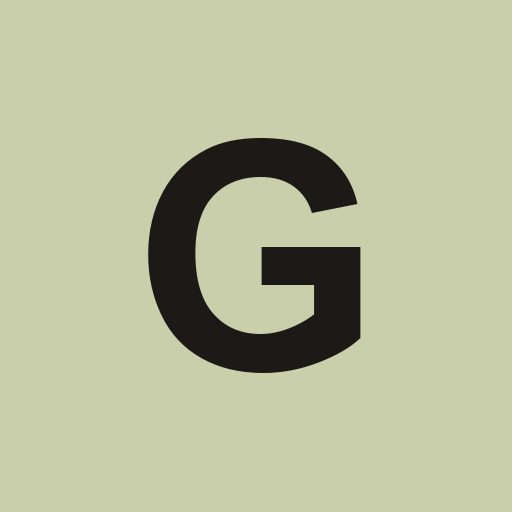
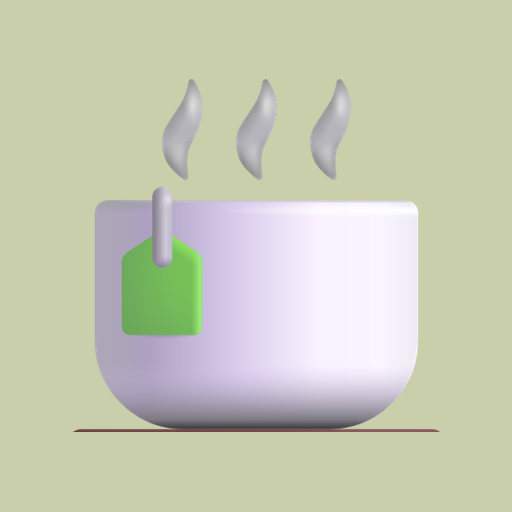
아이콘: 파비콘 · 홈 화면 아이콘을 🍵 로 통일
- app/favicon.ico (Next.js 기본 아이콘 → 🍵), 홈 화면 · 아이폰 · 안드로이드(원형) 아이콘도 🍵
- 서비스 워커 저장소 v4 (예전 G 아이콘 저장본 정리)

diff --git a/public/sw.js b/public/sw.js
@@ -6,7 +6,7 @@
 // 2) 이름에 버전 번호가 붙은 파일(/_next/static/...)은 바뀌지 않으니 저장해 두고 재사용해요.
 // 3) 신청(POST) · Supabase 요청(다른 주소)은 절대 건드리지 않아요 → 개인정보를 저장하지 않아요.
 
-const VERSION = "granolab-v3";
+const VERSION = "granolab-v4";
 const PAGES = `${VERSION}-pages`;
 const ASSETS = `${VERSION}-assets`;
 const OFFLINE_URL = "/";
